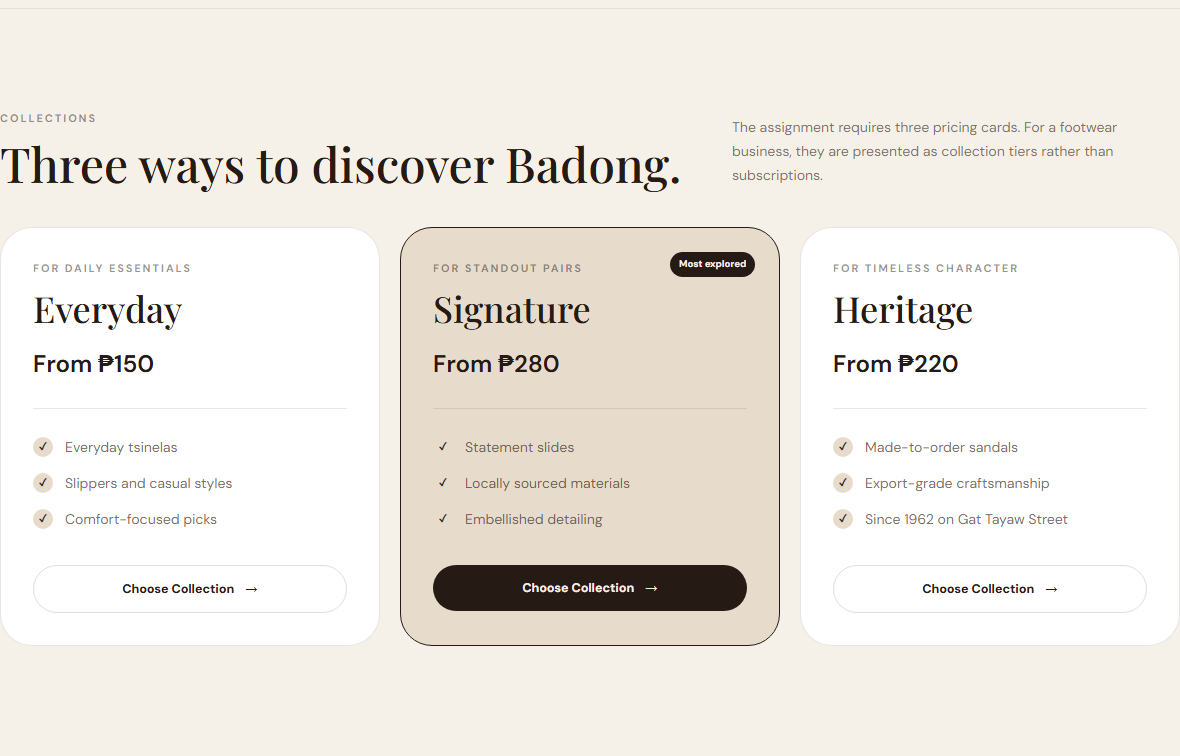
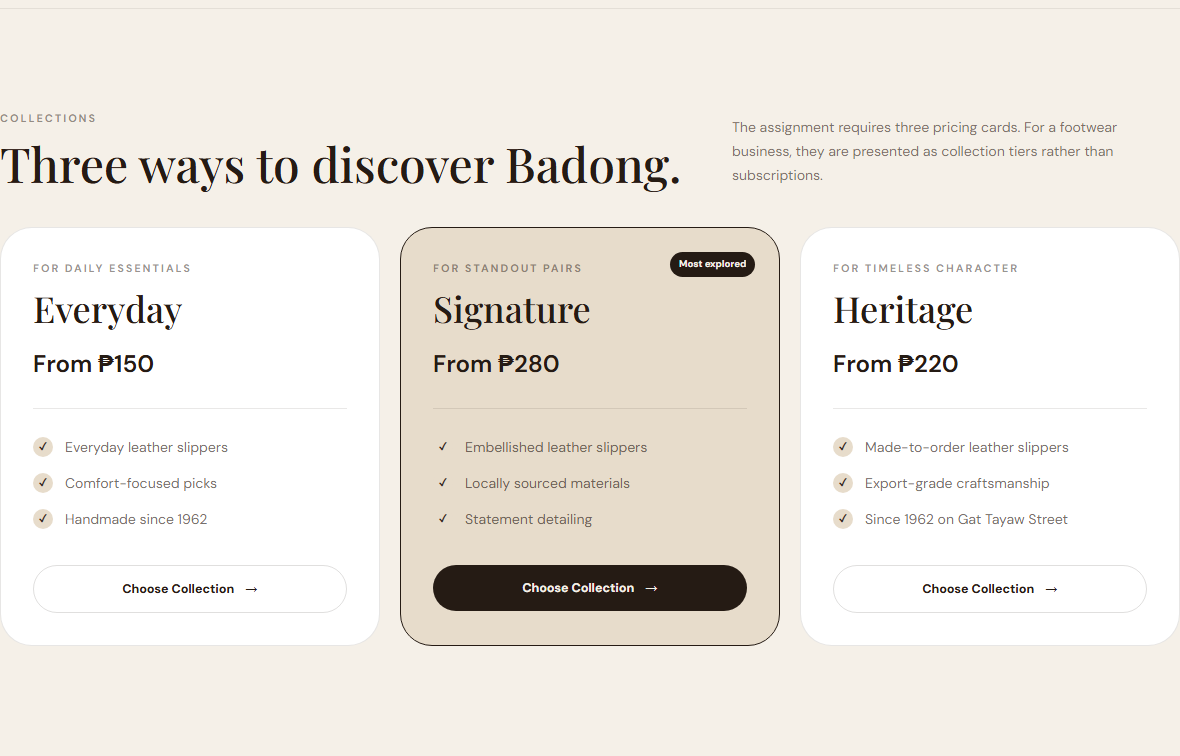
fix: correct product terminology to leather slippers
These are leather slippers, not "slides" or "sandals" — updated
product categories, descriptions, pricing-tier features, the
category navigation tiles, and image alt text throughout to say
"leather slippers" consistently. Renamed "Fiesta Slide" to "Fiesta
Slippers" for the same reason. Re-captured screenshots.

diff --git a/routes/web.php b/routes/web.php
@@ -6,25 +6,25 @@ Route::get('/', function () {
     $products = [
         [
             'name' => 'Liliw Tsinelas',
-            'description' => 'A handmade everyday tsinelas built the same way Badong has made pairs since 1962.',
+            'description' => 'A handmade pair of leather slippers, built the same way Badong has made pairs since 1962.',
             'price' => '₱150',
-            'category' => 'Tsinelas',
+            'category' => 'Leather Slippers',
             'image' => '/images/shoe-1.jpg',
             'badge' => 'Featured',
         ],
         [
-            'name' => 'Fiesta Slide',
-            'description' => 'A dressed-up statement slide from Badong\'s sandal collection, finished with embellished detailing.',
+            'name' => 'Fiesta Slippers',
+            'description' => 'A dressed-up pair of leather slippers from Badong\'s collection, finished with embellished detailing.',
             'price' => '₱280',
-            'category' => 'Dress Sandals',
+            'category' => 'Leather Slippers',
             'image' => '/images/shoe-2.jpg',
             'badge' => 'Popular',
         ],
         [
             'name' => "Founder's Original",
-            'description' => 'A made-to-order slide sandal in the tradition Badong is known for exporting abroad.',
+            'description' => 'A made-to-order pair of leather slippers in the tradition Badong is known for exporting abroad.',
             'price' => '₱220',
-            'category' => 'Heritage',
+            'category' => 'Leather Slippers',
             'image' => '/images/shoe-3.jpg',
             'badge' => 'Signature',
         ],
@@ -40,10 +40,10 @@ Route::get('/', function () {
     ];
 
     $categories = [
-        ['name' => 'Sandals', 'image' => '/images/category-sandals.jpg'],
-        ['name' => 'Slippers', 'image' => '/images/category-slippers.jpg'],
-        ['name' => 'Casual Footwear', 'image' => '/images/category-casual.jpg'],
-        ['name' => 'Heritage Styles', 'image' => '/images/category-heritage.jpg'],
+        ['name' => 'Embellished Slippers', 'image' => '/images/category-sandals.jpg'],
+        ['name' => 'Everyday Slippers', 'image' => '/images/category-slippers.jpg'],
+        ['name' => 'Casual Leather Slippers', 'image' => '/images/category-casual.jpg'],
+        ['name' => 'Heritage Slippers', 'image' => '/images/category-heritage.jpg'],
     ];
 
     $testimonials = [
@@ -53,9 +53,9 @@ Route::get('/', function () {
     ];
 
     $plans = [
-        ['name' => 'Everyday', 'eyebrow' => 'For daily essentials', 'price' => 'From ₱150', 'features' => ['Everyday tsinelas', 'Slippers and casual styles', 'Comfort-focused picks'], 'featured' => false],
-        ['name' => 'Signature', 'eyebrow' => 'For standout pairs', 'price' => 'From ₱280', 'features' => ['Statement slides', 'Locally sourced materials', 'Embellished detailing'], 'featured' => true],
-        ['name' => 'Heritage', 'eyebrow' => 'For timeless character', 'price' => 'From ₱220', 'features' => ['Made-to-order sandals', 'Export-grade craftsmanship', 'Since 1962 on Gat Tayaw Street'], 'featured' => false],
+        ['name' => 'Everyday', 'eyebrow' => 'For daily essentials', 'price' => 'From ₱150', 'features' => ['Everyday leather slippers', 'Comfort-focused picks', 'Handmade since 1962'], 'featured' => false],
+        ['name' => 'Signature', 'eyebrow' => 'For standout pairs', 'price' => 'From ₱280', 'features' => ['Embellished leather slippers', 'Locally sourced materials', 'Statement detailing'], 'featured' => true],
+        ['name' => 'Heritage', 'eyebrow' => 'For timeless character', 'price' => 'From ₱220', 'features' => ['Made-to-order leather slippers', 'Export-grade craftsmanship', 'Since 1962 on Gat Tayaw Street'], 'featured' => false],
     ];
 
     return view('pages.home', compact('products', 'features', 'categories', 'testimonials', 'plans'));

diff --git a/resources/views/pages/home.blade.php b/resources/views/pages/home.blade.php
@@ -80,7 +80,7 @@
         <div class="overflow-hidden rounded-[2rem] bg-sand">
             <div class="grid lg:grid-cols-2">
                 <div class="min-h-[420px] reveal">
-                    <img src="/images/craftsmanship.jpg" alt="Inside the Badong Footwear workshop: sandal lasts on wooden racks and cut leather soles on the workbench" class="h-full w-full object-cover">
+                    <img src="/images/craftsmanship.jpg" alt="Inside the Badong Footwear workshop: leather slipper lasts on wooden racks and cut leather soles on the workbench" class="h-full w-full object-cover">
                 </div>
                 <div class="flex items-center p-8 sm:p-12 lg:p-16 reveal">
                     <div class="max-w-xl">

diff --git a/resources/views/components/hero.blade.php b/resources/views/components/hero.blade.php
@@ -34,7 +34,7 @@
 
         <div class="relative reveal hero-product">
             <div class="hero-card">
-                <img src="/images/hero-shoe.jpg" alt="Real Badong Footwear brown leather slide sandal" class="h-full w-full object-cover">
+                <img src="/images/hero-shoe.jpg" alt="Real Badong Footwear brown leather slippers" class="h-full w-full object-cover">
             </div>
             <div class="floating-note floating-note-top">
                 <span class="floating-icon">01</span>
